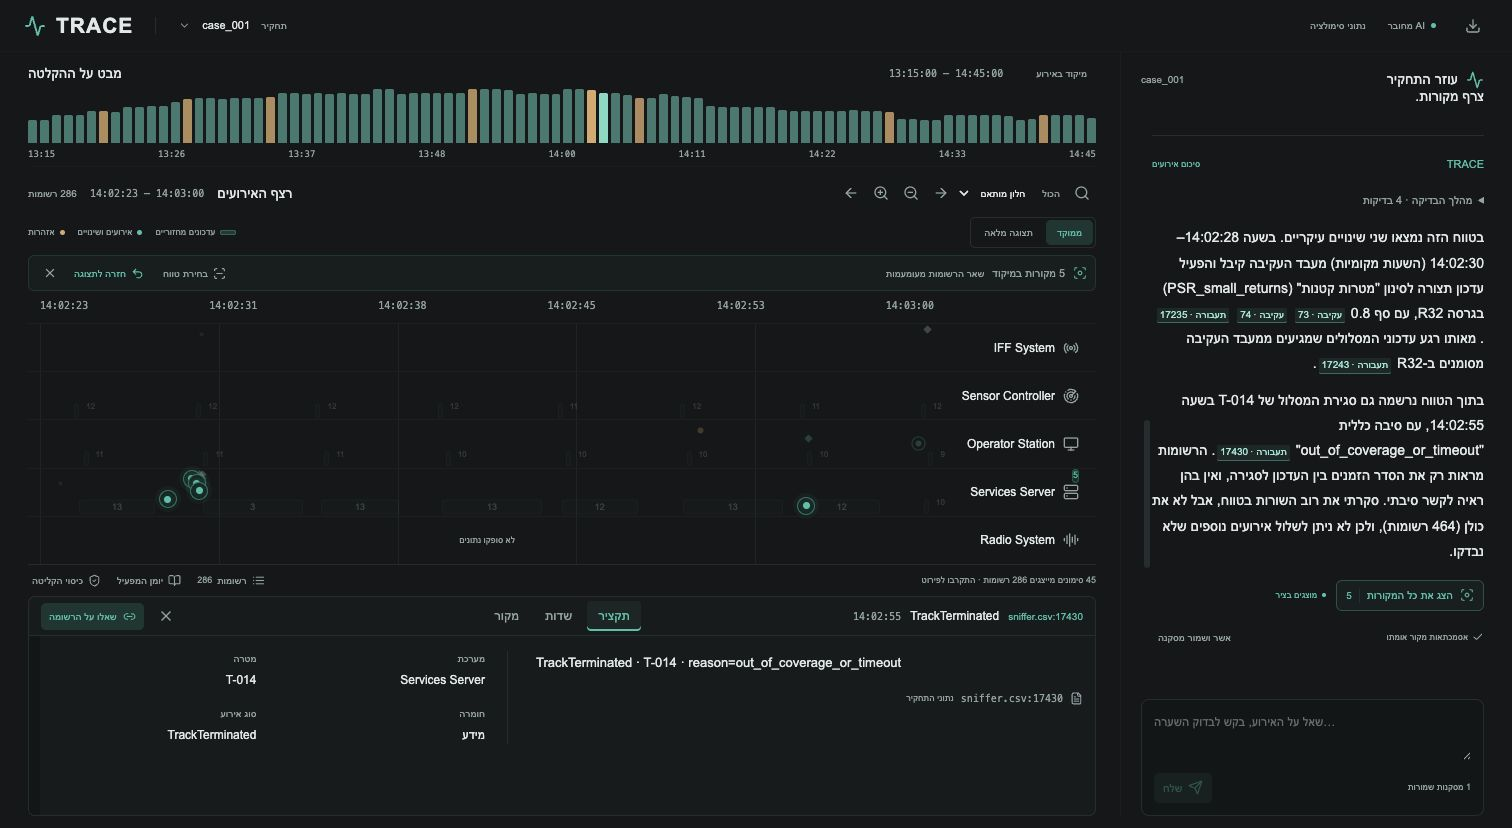
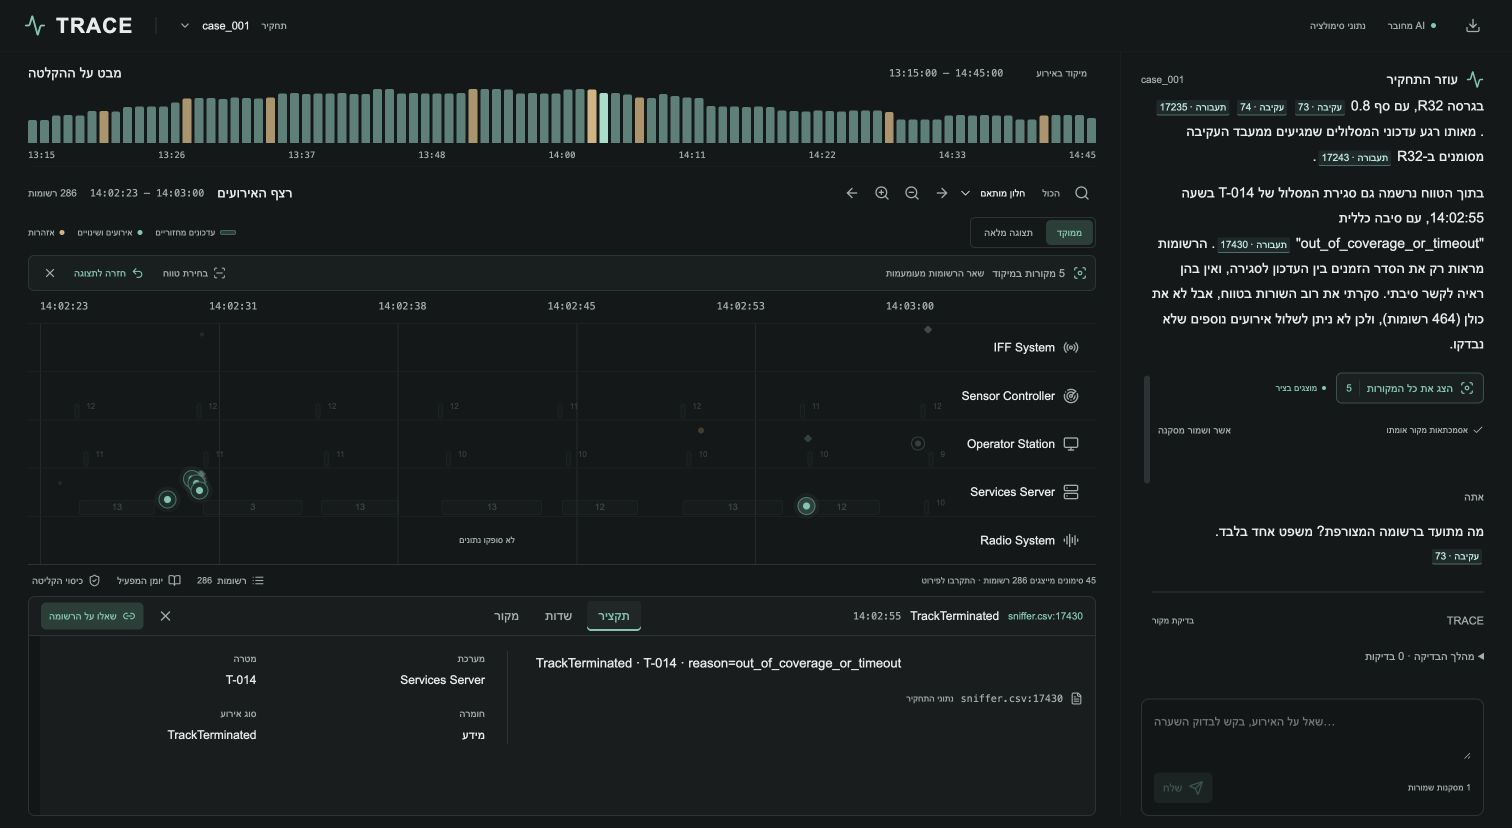
Remove evidence counts from timeline system labels

diff --git a/trace-main/src/demo/DemoApp.vue b/trace-main/src/demo/DemoApp.vue
@@ -118,7 +118,6 @@ const systemLanes = computed(() => baseLanes.value.map(lane => ({ ...lane,
     left: Math.max(0, percentAt(group.time)), width: Math.max(0, Math.min(100, percentAt(group.end)) - Math.max(0, percentAt(group.time))) })),
   evidencePoints: [...focusPoints.value, ...previewPoints.value].filter(point => point.system === lane.id && point.time >= start.value && point.time <= end.value)
     .map(point => ({ ...point, left: percentAt(point.time) })),
-  referenceCount: linkedEvents.value.filter(event => lane.sources.includes(event.source)).length,
 })));
 const rangeStyle = computed(() => {
   if (!selectedRange.value) return undefined;
@@ -575,7 +574,7 @@ onUnmounted(() => { window.removeEventListener('keydown', handleEscape); finishR
                     @pointerenter="timelineTooltip?.show($event, point)" @pointerleave="timelineTooltip?.leave()" @focus="timelineTooltip?.show($event, point)" @blur="timelineTooltip?.hide()" @click="timelineTooltip?.hide(); openEvidence(point.badge)"><span></span><i aria-hidden="true"></i></button>
                 </div>
                 <div v-else class="lane-no-data">{{ loading ? 'טוען…' : 'לא סופקו נתונים' }}</div>
-                <button class="lane-name" :aria-pressed="system === lane.id" :title="lane.sources.join(', ') || 'לא סופקו נתונים'" @click="clearFocus(); system = system === lane.id ? '' : lane.id"><span v-if="lane.referenceCount" class="lane-reference-count" :aria-label="lane.referenceCount + ' מקורות בשיחה'">{{ lane.referenceCount }}</span><span dir="ltr">{{ lane.name }}</span><component :is="laneIcons[lane.id as keyof typeof laneIcons]" :size="16"/></button>
+                <button class="lane-name" :aria-pressed="system === lane.id" :title="lane.sources.join(', ') || 'לא סופקו נתונים'" @click="clearFocus(); system = system === lane.id ? '' : lane.id"><span dir="ltr">{{ lane.name }}</span><component :is="laneIcons[lane.id as keyof typeof laneIcons]" :size="16"/></button>
               </div>
               <div v-if="!systemLanes.length" class="empty-records">אין מערכות התואמות למסננים. <button @click="resetFilters">ניקוי מסננים</button></div>
             </div>

diff --git a/trace-main/src/demo/evidence-focus.css b/trace-main/src/demo/evidence-focus.css
@@ -27,8 +27,6 @@
 .lane-track .evidence-marker.is-preview { z-index: 5; border-color: #c7e9de; box-shadow: 0 0 0 4px #70c6b225, 0 0 20px #70c6b22b; }
 .lane-track .evidence-marker:hover { background: #315448; border-color: var(--accent); }
 .lane-track .evidence-marker:focus-visible { outline-offset: 5px; }
-.lane-name { position: relative; }
-.lane-reference-count { position: absolute; right: 8px; top: -7px; display: inline-flex; justify-content: center; align-items: center; min-width: 15px; height: 14px; border: 1px solid #70c6b24a; border-radius: 4px; background: #18352c; color: var(--accent); font-size: 9px; font-variant-numeric: tabular-nums; }
 .is-selecting-range .lane-track, .is-selecting-range .lane-track button, .is-selecting-range .lane-no-data, .is-selecting-range .timeline-axis > div { cursor: crosshair; touch-action: none; }
 .range-brush { position: absolute; inset-block: 0; z-index: 2; pointer-events: none; border-inline: 1px solid #70c6b2b3; background: #70c6b216; min-width: 1px; }
 .range-brush::before, .range-brush::after { content: ''; position: absolute; top: 50%; width: 3px; height: 13px; border-radius: 2px; background: var(--accent); transform: translateY(-50%); }
@@ -58,7 +56,6 @@
   .timeline-contextbar { padding-inline: 4px; gap: 4px; }
   .context-status { gap: 5px; font-size: 10px; }
   .context-actions button { padding: 5px; font-size: 9px; }
-  .lane-reference-count { min-width: 14px; height: 14px; font-size: 8px; }
 }
 @media (max-width: 700px) {
   .timeline-contextbar { min-height: 36px; flex-basis: auto; flex-wrap: wrap; }
@@ -66,8 +63,6 @@
   .context-actions { margin-inline-start: auto; }
   .context-status .context-caption { font-size: 9px; }
   .lane-track .evidence-marker { width: 22px; height: 22px; }
-  .lane-name { gap: 4px; }
-  .lane-reference-count { flex-shrink: 0; }
 }
 @media (prefers-reduced-motion: reduce) {
   .timeline-contextbar, .lane-track > button, .jade .citation.citation-link, .answer-evidence-action > button { transition: none; }
